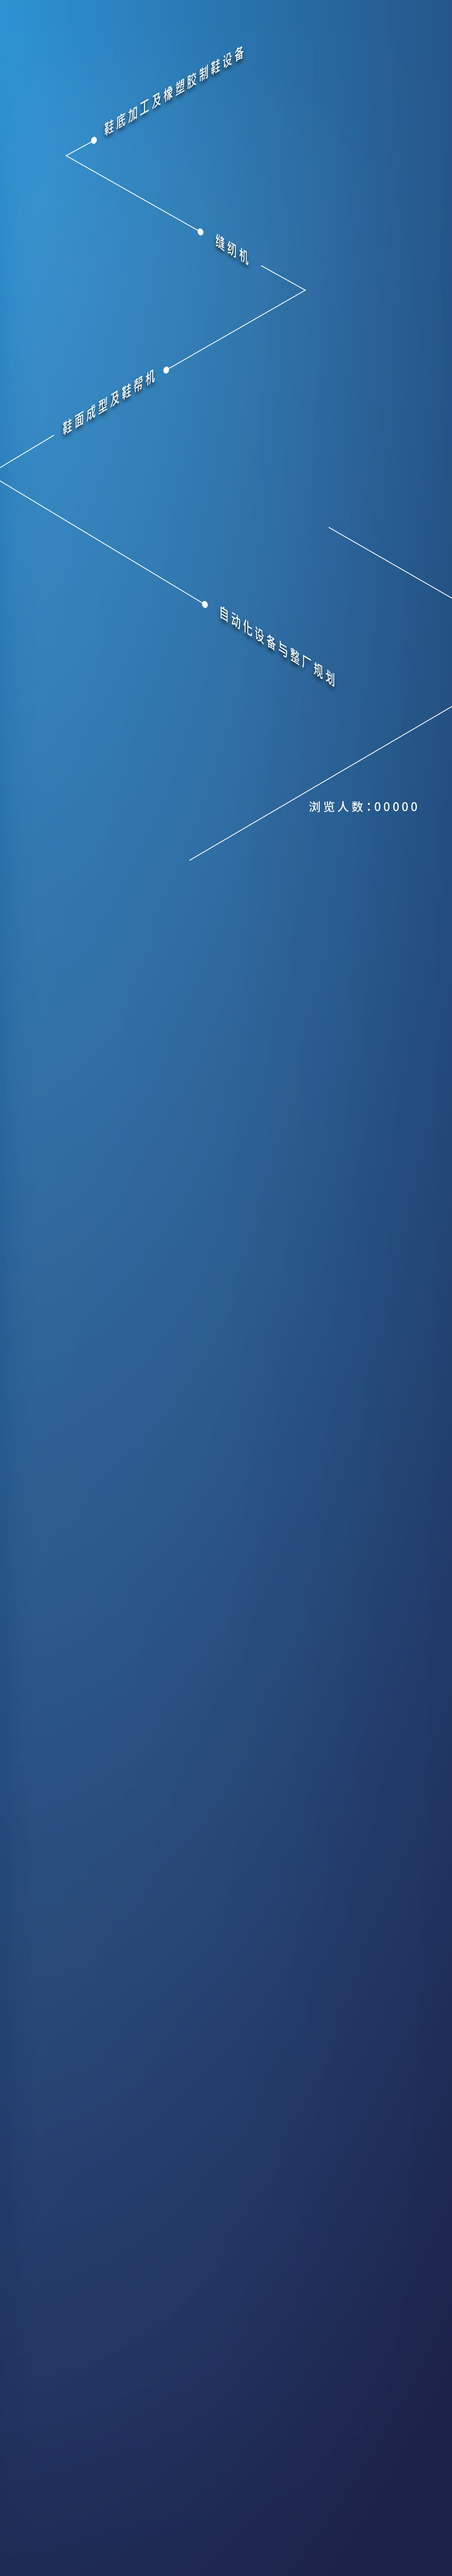
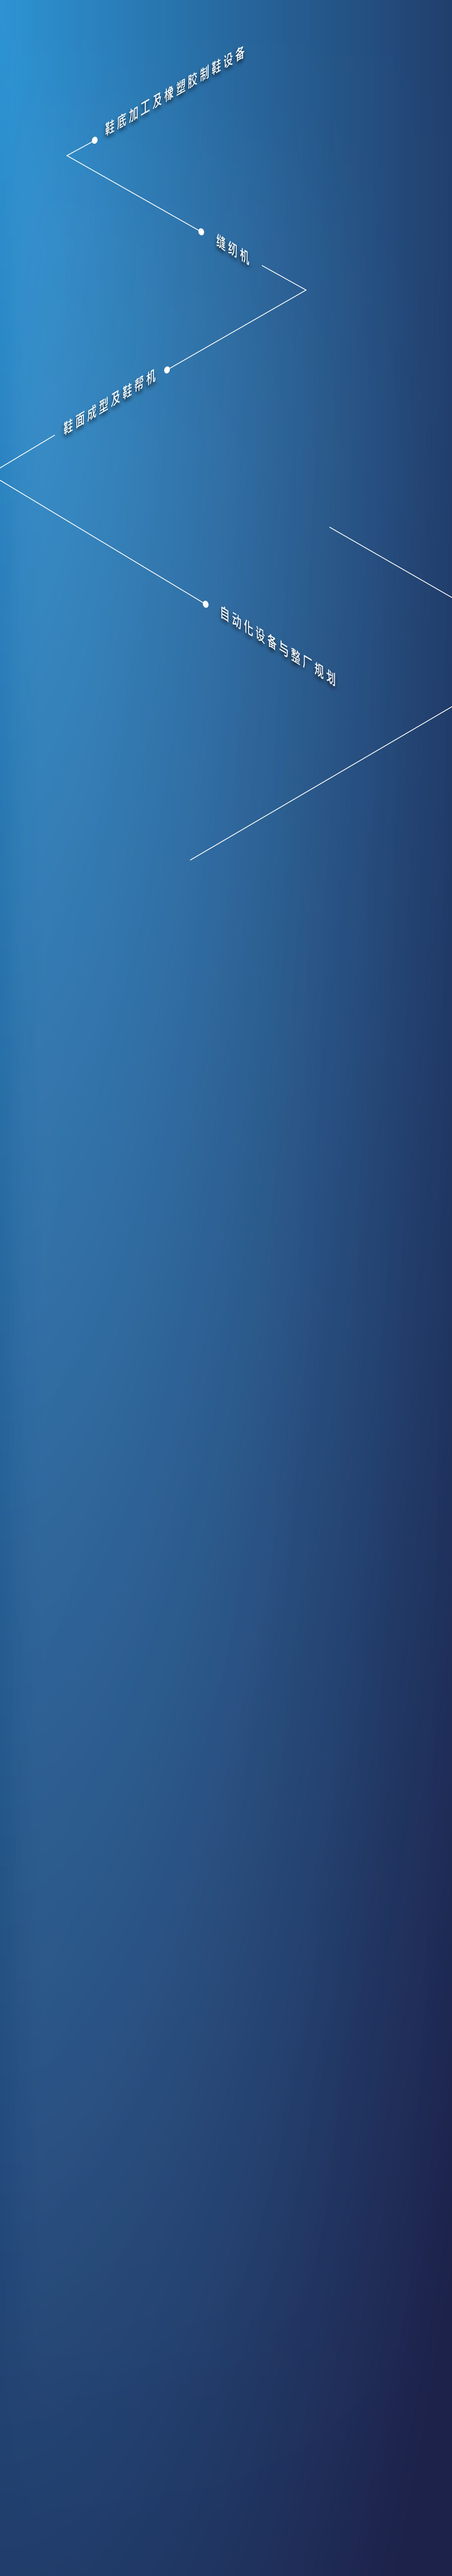
首頁：手機板的背景有中英版切換，手機板的瀏覽人數調整

diff --git a/public/css/style.css b/public/css/style.css
@@ -640,7 +640,7 @@ h1,h2,h3,h4,h5,h6,p{ margin:0; padding:0;}
 		-webkit-transform: scale(0.85, 0.85);
 		transform: scale(0.85, 0.85);
 	}
-	
+	.home_list .visited{ left:auto;right:20px; top:95%; z-index:88;}
 }
 @media screen and (max-width: 992px){	
 	.product_detail .slider .outer .col02 .bottom_div .info .scrollbar{ font-size:1.2vw;width: calc(100% - 2.5vw);}

diff --git a/public/js/front/js/index.js b/public/js/front/js/index.js
@@ -1,0 +1,6 @@
+$(document).ready(function() {
+    var mobileBackground = $("[name=mobileBackground]").val();
+    console.log(mobileBackground);
+    $('.mobile_div').css('background', 'url('+ mobileBackground+ ') center top no-repeat');
+    $('.mobile_div').css('background-size', '100% auto');
+});

diff --git a/app/Http/Controllers/Front/FrontController.php b/app/Http/Controllers/Front/FrontController.php
@@ -55,6 +55,7 @@ class FrontController extends Controller
             $params['area2'] = 'images/platform_02_title.png';
             $params['area3'] = 'images/platform_03_title.png';
             $params['area4'] = 'images/platform_01_title.png';
+            $params['backMobile'] = '../images/tami_01_mobile.jpg';
             break;
         case 'en':
             $params['logo'] = 'images/home_logo_e2.gif';
@@ -63,6 +64,7 @@ class FrontController extends Controller
             $params['area2'] = 'images/platform_02_title_eng.png';
             $params['area3'] = 'images/platform_03_title_eng.png';
             $params['area4'] = 'images/platform_01_title_eng.png';
+            $params['backMobile'] = '../images/tami_01_mobile_eng.jpg';
             break;
         }
         

diff --git a/resources/views/front/index.blade.php b/resources/views/front/index.blade.php
@@ -458,7 +458,7 @@
         </div>
     </div>    
 </div>
-
+<input type="hidden" name="mobileBackground" value="{{ $result['backMobile'] }}" />
 
 
 
@@ -467,6 +467,7 @@
 <script src="js/front/js/jquery.min.js"></script>
 <script src="owl.carousel/owl.carousel.js"></script>
 <script src="js/front/js/script.js"></script>
+<script src="js/front/js/index.js"></script>
 
 </body>
 </html>
